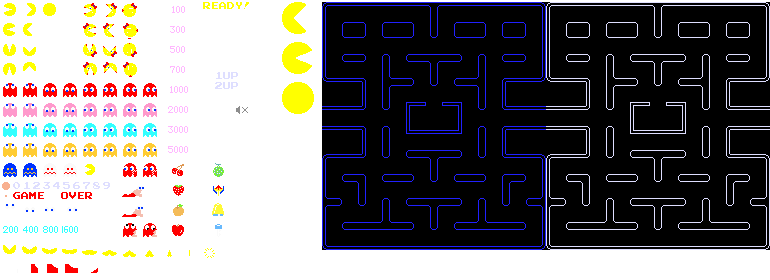
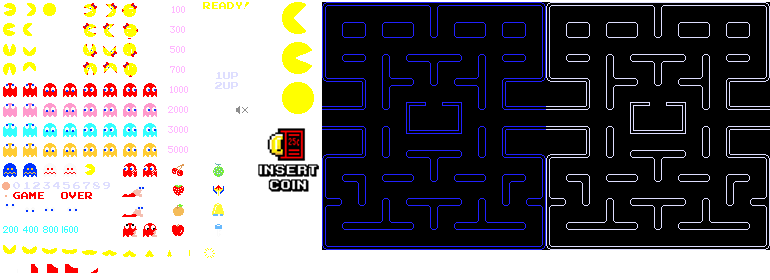
开发

Changed region(s): [[0.3117, 0.4571, 0.4364, 0.6857]]

diff --git a/Pacman2/Pacman2/js/main.js b/Pacman2/Pacman2/js/main.js
@@ -2,7 +2,7 @@ import GameRes from './GameRes'
 import Actor from './Actor'
 
 
-import { allPaths, noDotPaths, GAMEMODE, levelConfig, ACTORMODE, times, PEN_LEAVING_FOOD_LIMITS, Energizer } from './GameRes'
+import { fruitPos, allPaths, noDotPaths, GAMEMODE, levelConfig, ACTORMODE, times, PEN_LEAVING_FOOD_LIMITS, Energizer } from './GameRes'
 
 const FPS_OPTIONS = [90, 45, 30];
 const DEFAULT_FPS = FPS_OPTIONS[0];
@@ -54,6 +54,7 @@ export default class Main {
     }
 
     newGame() {
+        this.frame = 0;
         this.playerCount = 1;
         this.createActors();
         this.startGameplay();
@@ -101,7 +102,7 @@ export default class Main {
         this.tilesChanged = false;
 
         this.updateCruiseElroySpeed();
-        //g.hideFruit();
+        this.hideFruit();
         this.resetForcePenLeaveTime();
         this.restartActors();
         //g.updateActorPositions();
@@ -167,9 +168,12 @@ export default class Main {
         ctx.clearRect(0, 0, canvas.width, canvas.height)
 
         this.renderPlayfield(gameRes);
+        if (this.fruitShown) {
+            gameRes.renderImage(46, fruitPos[1], fruitPos[0] + this.playfieldY, 0, 0);
+        }
+
         for (let key in this.actors) {
-            if (this.actors[key].ghost == false)
-                this.actors[key].render(gameRes);
+            this.actors[key].render(gameRes);
             // ctx.strokeRect(this.actors[key].pos[1] * gameRes.renderRate, (this.actors[key].pos[0]+48) * gameRes.renderRate, 
             //     16 * gameRes.renderRate, 16 * gameRes.renderRate);
 
@@ -177,6 +181,8 @@ export default class Main {
 
         if (this.showReady)
             gameRes.renderImage(4, 114, 189, 1, 1)
+
+        gameRes.renderImage(100, 112, this.playfieldY+32*8);//, canvas.height - 100, 1, 1);
     }
 
 
@@ -246,8 +252,10 @@ export default class Main {
         for (let y in this.playfield) {
             let fieldy = this.playfield[y];
             for (let x in fieldy) {
-                if (fieldy[x].dot > 0) {
+                if (fieldy[x].dot == 1) {
                     gameRes.renderImage(2, Number(x) + this.playfieldX, Number(y) + this.playfieldY)
+                } else if (fieldy[x].dot == 2) {
+                    gameRes.renderImage(11, Number(x) + this.playfieldX, Number(y) + this.playfieldY)
                 }
             }
         }
@@ -352,6 +360,11 @@ export default class Main {
                     this.dotsRemaining--
                 }
             }
+        }
+
+        for (var k in Energizer) {
+            var c = Energizer[k];
+            this.playfield[c.y * 8][c.x * 8].dot = 2
         }
     }
 
@@ -469,14 +482,14 @@ export default class Main {
         this.playfield[14 * 8][0].allowedDir = 12;
         this.playfield[14 * 8][27 * 8].allowedDir = 12;
 
-        this.playfield[14 * 8][-8] = this.playfield[14 * 8][-16] = {
-            path: 0,
+        this.playfield[14 * 8][-8] = this.playfield[14 * 8][-16] = this.playfield[14 * 8][-24] = {
+            path: 1,
             dot: 0,
             intersection: 0,
             allowedDir: 12
         };
-        this.playfield[14 * 8][28 * 8] = this.playfield[14 * 8][29 * 8] = {
-            path: 0,
+        this.playfield[14 * 8][28 * 8] = this.playfield[14 * 8][29 * 8] = this.playfield[14 * 8][30 * 8] = {
+            path: 1,
             dot: 0,
             intersection: 0,
             allowedDir: 12
@@ -889,8 +902,13 @@ export default class Main {
                 this.hideFruit()
         }
     };
-
-
+    hideFruit() {
+        this.fruitShown = false;
+    };
+    showFruit() {
+        this.fruitShown = true;
+        this.fruitTime = this.timing[15] + (this.timing[16] - this.timing[15]) * this.rand()
+    };
 
     handleGhostModeTimer = function () {
         if (this.frightModeTime) {
@@ -957,7 +975,7 @@ export default class Main {
         !this.extraLifeAwarded[c] && this.score[c] > 1E4 && this.extraLife(c);
         //g.updateChromeScore(c)
     };
-    clearDotEatingNow () {
+    clearDotEatingNow() {
         this.dotEatingNow = [false, false];
         this.dotEatingNext = [false, false]
     };
@@ -999,7 +1017,7 @@ export default class Main {
         // }
     };
 
-    repeatDotEatingSound  (b) {
+    repeatDotEatingSound(b) {
         // g.dotEatingNow[b] = e;
         // if (g.dotEatingNext[b]) {
         //     g.dotEatingNext[b] = e;
@@ -1071,6 +1089,7 @@ export default class Main {
             // g.blinkScoreLabels()
         }
         else {
+            this.frame++;
             this.moveActors();
             if (this.gameplayMode == 0) {
                 if (this.tilesChanged) {

diff --git a/Pacman2/Pacman2/js/Actor.js b/Pacman2/Pacman2/js/Actor.js
@@ -23,9 +23,26 @@ const PM_DIR_LEFT = 4;
 const PM_DIR_RIGHT = 8;
 
 
+const pacmanAnim = [
+    9, 10, 9, 6,//pacman上
+    12, 13, 12, 6,//pacman下
+    3, 5, 3, 6,//pacman左
+    7, 8, 7, 6,//pacman右
 
+    14, 15, 16, 17, 18, 19, 20, 21,//red上下左右
+    22, 23, 24, 25, 26, 27, 28, 29,//pink
+    30, 31, 32, 33, 34, 35, 36, 37,//blue
+    38, 39, 40, 41, 42, 43, 44, 45,//yellow
 
+    50, 51, 52, 53,//受惊
+];
 
+const Dir2Anim = {
+    1: 0,
+    2: 1,
+    4: 2,
+    8: 3,
+}
 
 
 
@@ -43,7 +60,29 @@ export default class Actor {
 
 
     render(gameRes) {
-        gameRes.renderImage(3, this.pos[1] + 4, this.pos[0] + 4 + this.mainRef.playfieldY, 1, 1);
+        if (this.dir) {
+            if (this.ghost == false) {
+                this.idx = Math.floor(this.mainRef.frame / 3) % 4;
+                this.idx += Dir2Anim[this.dir] * 4;
+            } else {
+                if (this.mainRef.frightModeTime) {
+                    this.idx = 48 + Math.floor(this.mainRef.frame / 3) % 2;
+                    if (this.mainRef.frightModeTime < this.mainRef.levels.frightTotalTime - this.mainRef.levels.frightTime)
+                        this.idx += Math.floor(this.mainRef.frame / 12) % 2 * 2;
+                } else {
+                    if (this.id == this.mainRef.playerCount) {
+                        this.idx = 16 + Math.floor(this.mainRef.frame / 3) % 2 + Dir2Anim[this.dir] * 2;
+                    } else if (this.id == this.mainRef.playerCount + 1) {
+                        this.idx = 24 + Math.floor(this.mainRef.frame / 3) % 2 + Dir2Anim[this.dir] * 2;
+                    } else if (this.id == this.mainRef.playerCount + 2) {
+                        this.idx = 32 + Math.floor(this.mainRef.frame / 3) % 2 + Dir2Anim[this.dir] * 2;
+                    } else if (this.id == this.mainRef.playerCount + 3) {
+                        this.idx = 40 + Math.floor(this.mainRef.frame / 3) % 2 + Dir2Anim[this.dir] * 2;
+                    }
+                }
+            }
+        }
+        gameRes.renderImage(pacmanAnim[this.idx], this.pos[1] + 4, this.pos[0] + 4 + this.mainRef.playfieldY, 1, 1);
     }
 
 
@@ -293,7 +332,7 @@ export default class Actor {
                     else {
                         let randDir;
                         do randDir = allDirection[Math.floor(this.mainRef.rand() * 4)];
-                        while ((randDir & h.allowedDir) == 0 || randDir == oppositeDirections[this.dir]);
+                        while ((randDir & field.allowedDir) == 0 || randDir == oppositeDirections[this.dir]);
                         this.nextDir = randDir
                     }
                     break

diff --git a/Pacman2/Pacman2/js/GameRes.js b/Pacman2/Pacman2/js/GameRes.js
@@ -6,6 +6,64 @@ const altasRect = {
     2: [2, 192, 8, 8],//小点
     3: [2, 1, 16, 16],//pacman往左
     4: [200, 0, 52, 12],//READY!
+    5: [22, 1, 16, 16],//pacman 往左2
+    6: [42, 1, 16, 16],//pacman合嘴
+    7: [2, 21, 16, 16],//pacman往右
+    8: [22, 21, 16, 16],//pacman往右2
+    9: [2, 41, 16, 16],//pacman往上
+    10: [22, 41, 16, 16],//pacman往上2
+    11: [2, 182, 8, 8],//大点
+    12: [2, 61, 16, 16],//pacman往下
+    13: [22, 61, 16, 16],//pacman往下2
+
+    14: [2, 81, 16, 16],//red上1
+    15: [22, 81, 16, 16],//red上2
+    16: [42, 81, 16, 16],//red下1
+    17: [62, 81, 16, 16],//red下2
+    18: [82, 81, 16, 16],//red左1
+    19: [102, 81, 16, 16],//red左2
+    20: [122, 81, 16, 16],//red右1
+    21: [142, 81, 16, 16],//red右2
+
+    22: [2, 101, 16, 16],//pink上1
+    23: [22, 101, 16, 16],//pink上2
+    24: [42, 101, 16, 16],//pink下1
+    25: [62, 101, 16, 16],//pink下2
+    26: [82, 101, 16, 16],//pink左1
+    27: [102, 101, 16, 16],//pink左2
+    28: [122, 101, 16, 16],//pink右1
+    29: [142, 101, 16, 16],//pink右2
+
+    30: [2, 121, 16, 16],//blue上1
+    31: [22, 121, 16, 16],//blue上2
+    32: [42, 121, 16, 16],//blue下1
+    33: [62, 121, 16, 16],//blue下2
+    34: [82, 121, 16, 16],//blue左1
+    35: [102, 121, 16, 16],//blue左2
+    36: [122, 121, 16, 16],//blue右1
+    37: [142, 121, 16, 16],//blue右2
+
+    38: [2, 141, 16, 16],//yellow上1
+    39: [22, 141, 16, 16],//yellow上2
+    40: [42, 141, 16, 16],//yellow下1
+    41: [62, 141, 16, 16],//yellow下2
+    42: [82, 141, 16, 16],//yellow左1
+    43: [102, 141, 16, 16],//yellow左2
+    44: [122, 141, 16, 16],//yellow右1
+    45: [142, 141, 16, 16],//yellow右2
+
+    46:[170,164,16,16],//樱桃
+    //47
+    //48
+    //49
+
+    50:[2,161,16,16],//ghost受惊blue1
+    51:[22,161,16,16],//ghost受惊blue2
+    52:[42,161,16,16],//ghost受惊white1
+    53:[62,161,16,16],//ghost受惊white2
+
+    100:[256,128,64,64],//insert coin
+
 }
 const y = 0.8 * 0.4
 export const penRoutinePos = {//在围栏中来回移动的参考点
@@ -241,14 +299,14 @@ export const actorInitial = [//怪物的初始位置，方向，散开点
 //...
 
 export const penExit = [88, 104];//围栏的出口
-export const fruitPos = [136, 104];//水果的位置
+export const fruitPos = [135, 104];//水果的位置
 export const tunneLadit = [//隧道口
     {
-        x: -1,
+        x: -2,
         y: 14
     },
     {
-        x: 28,
+        x: 29,
         y: 14
     }]
 
